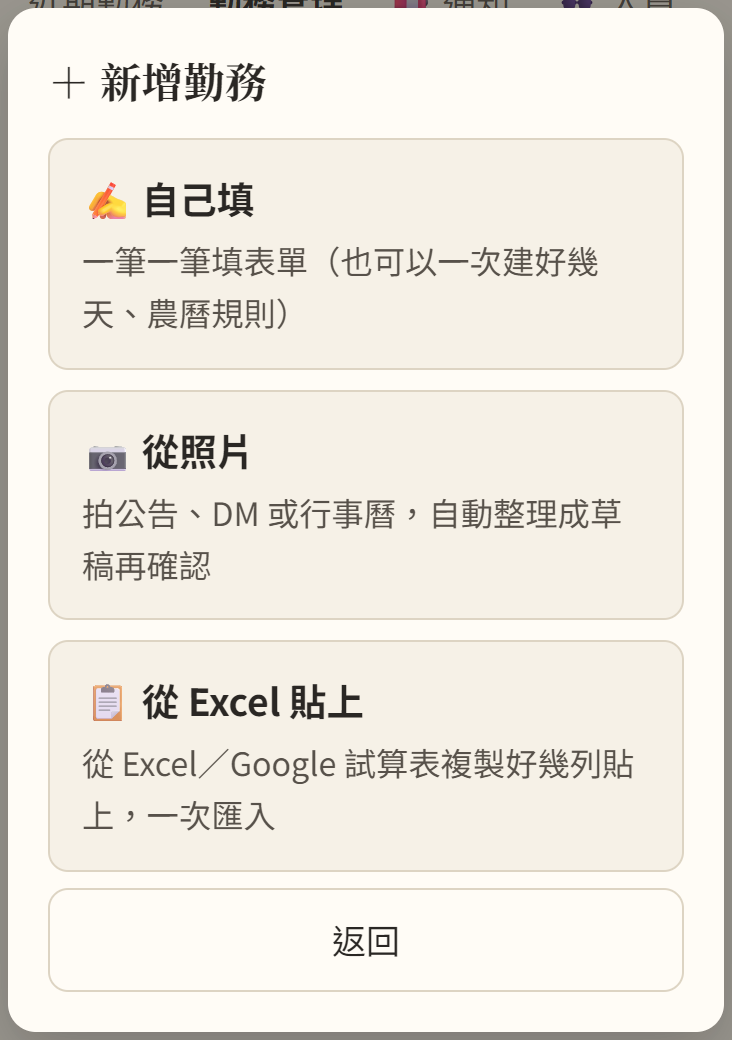
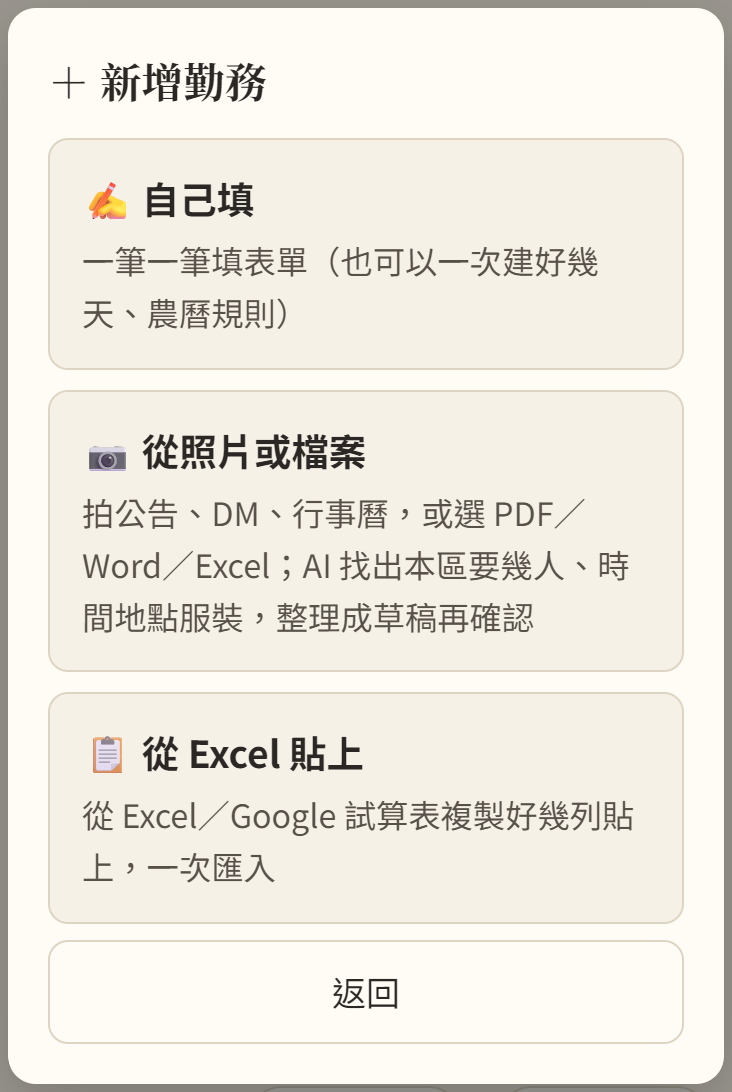
從照片或檔案新增：AI 先找活動再找本區要幾人、可選檔案與仔細判讀、借教全區金鑰

diff --git a/index.html b/index.html
@@ -15,7 +15,7 @@
   if (location.hostname === 'bailixiao.github.io') location.replace('https://jiaoquan-cal.pages.dev/' + location.pathname.replace(/^\/duty-calendar\/?/, '').replace(/index\.html$/, '') + location.search + location.hash);
   </script>
   <meta name="viewport" content="width=device-width, initial-scale=1">
-  <meta name="app-version" content="20261126e"><!-- 整個網站的版本：部署時和 ?v= 一起換（js/update-check.js 用；正式網站的 ?v= 會換成各檔案的雜湊，見 tools/build-pages.js） -->
+  <meta name="app-version" content="20261126f"><!-- 整個網站的版本：部署時和 ?v= 一起換（js/update-check.js 用；正式網站的 ?v= 會換成各檔案的雜湊，見 tools/build-pages.js） -->
   <meta name="theme-color" content="#f6f1e7">
   <title>教全區行事曆</title>
   <!-- 加到手機主畫面時的圖示與名稱 -->
@@ -32,7 +32,7 @@
   <link rel="preconnect" href="https://fonts.googleapis.com">
   <link rel="preconnect" href="https://fonts.gstatic.com" crossorigin>
   <link href="https://fonts.googleapis.com/css2?family=Noto+Sans+TC:wght@400;500;700&family=Noto+Serif+TC:wght@600;700&display=swap" rel="stylesheet">
-  <link rel="stylesheet" href="css/app.css?v=20261126e">
+  <link rel="stylesheet" href="css/app.css?v=20261126f">
   <script>try { var t = localStorage.getItem('duty-calendar:text-size'); if (t === 'l' || t === 'xl') document.documentElement.classList.add('text-' + t); } catch (e) {}</script>
 </head>
 <body class="splash-on">
@@ -127,78 +127,78 @@
   <script src="https://cdn.jsdelivr.net/npm/fullcalendar@6.1.21/index.global.min.js"></script>
   <script src="https://cdn.jsdelivr.net/npm/@fullcalendar/core@6.1.21/locales/zh-tw.global.min.js"></script>
   <!-- 改了 js、css 後把 ?v= 的日期換新，手機才不會用到舊的檔案（GitHub Pages 會快取 10 分鐘） -->
-  <script src="js/site.js?v=20261126e"></script>
-  <script src="js/region.js?v=20261126e"></script>
-  <script src="js/config.js?v=20261126e"></script>
-  <script src="js/api.js?v=20261126e"></script>
-  <script src="js/format.js?v=20261126e"></script>
-  <script src="js/member-suggest.js?v=20261126e"></script>
-  <script src="js/newcomer.js?v=20261126e"></script>
-  <script src="js/album.js?v=20261126e"></script>
-  <script src="js/member-file.js?v=20261126e"></script>
-  <script src="js/family.js?v=20261126e"></script>
-  <script src="js/lunar-util.js?v=20261126e"></script>
-  <script src="js/date-list.js?v=20261126e"></script>
-  <script src="js/share.js?v=20261126e"></script>
-  <script src="js/addcal.js?v=20261126e"></script>
-  <script src="js/duty-cache.js?v=20261126e"></script>
-  <script src="js/thanks-board.js?v=20261126e"></script>
-  <script src="js/calendar.js?v=20261126e"></script>
-  <script src="js/confirm.js?v=20261126e"></script>
-  <script src="js/reschedule.js?v=20261126e"></script>
-  <script src="js/signup.js?v=20261126e"></script>
-  <script src="js/duty-images.js?v=20261126e"></script>
-  <script src="js/roster-grid.js?v=20261126e"></script>
-  <script src="js/grid-page.js?v=20261126e"></script>
-  <script src="js/grid-image.js?v=20261126e"></script>
-  <script src="js/thanks-image.js?v=20261126e"></script>
-  <script src="js/celebrate.js?v=20261126e"></script>
-  <script src="js/duty.js?v=20261126e"></script>
-  <script src="js/mine.js?v=20261126e"></script>
-  <script src="js/venue-hours.js?v=20261126e"></script>
-  <script src="js/venue.js?v=20261126e"></script>
-  <script src="js/push.js?v=20261126e"></script>
-  <script type="text/x-admin" src="js/attend-check.js?v=20261126e"></script>
-  <script type="text/x-admin" src="js/member-dups.js?v=20261126e"></script>
-  <script type="text/x-admin" src="js/admin.js?v=20261126e"></script>
-  <script type="text/x-admin" src="js/admin-pages.js?v=20261126e"></script>
-  <script type="text/x-admin" src="js/draft-editor.js?v=20261126e"></script>
-  <script type="text/x-admin" src="js/group-fair.js?v=20261126e"></script>
-  <script type="text/x-admin" src="js/admin-duties.js?v=20261126e"></script>
-  <script type="text/x-admin" src="js/admin-accounts.js?v=20261126e"></script>
-  <script type="text/x-admin" src="js/admin-site.js?v=20261126e"></script>
-  <script src="js/region-setup.js?v=20261126e"></script>
-  <script type="text/x-admin" src="js/import-parse.js?v=20261126e"></script>
-  <script type="text/x-admin" src="js/admin-import.js?v=20261126e"></script>
-  <script type="text/x-admin" src="js/old-parse.js?v=20261126e"></script>
-  <script type="text/x-admin" src="js/old-import.js?v=20261126e"></script>
-  <script type="text/x-admin" src="js/admin-people.js?v=20261126e"></script>
-  <script type="text/x-admin" src="js/admin-hq.js?v=20261126e"></script>
-  <script type="text/x-admin" src="js/stats-calc.js?v=20261126e"></script>
-  <script type="text/x-admin" src="js/edu-stats.js?v=20261126e"></script>
-  <script type="text/x-admin" src="js/edu-care.js?v=20261126e"></script>
-  <script type="text/x-admin" src="js/admin-goals.js?v=20261126e"></script>
-  <script type="text/x-admin" src="js/admin-venue.js?v=20261126e"></script>
-  <script type="text/x-admin" src="js/admin-push.js?v=20261126e"></script>
-  <script src="js/tutorial.js?v=20261126e"></script>
-  <script src="js/feedback.js?v=20261126e"></script>
-  <script src="js/help.js?v=20261126e"></script>
-  <script src="js/rollcall.js?v=20261126e"></script>
-  <script type="text/x-admin" src="js/stats-export.js?v=20261126e"></script>
-  <script src="js/repair.js?v=20261126e"></script>
-  <script src="js/activity-report.js?v=20261126e"></script>
-  <script type="text/x-admin" src="js/member-stats.js?v=20261126e"></script>
-  <script type="text/x-admin" src="js/year-report.js?v=20261126e"></script>
-  <script type="text/x-admin" src="js/admin-stats.js?v=20261126e"></script>
-  <script type="text/x-admin" src="js/admin-report.js?v=20261126e"></script>
-  <script type="text/x-admin" src="js/admin-recent-signups.js?v=20261126e"></script>
-  <script type="text/x-admin" src="js/admin-notice.js?v=20261126e"></script>
-  <script type="text/x-admin" src="js/admin-notify.js?v=20261126e"></script>
-  <script type="text/x-admin" src="js/history-parse.js?v=20261126e"></script>
-  <script type="text/x-admin" src="js/admin-history.js?v=20261126e"></script>
-  <script type="text/x-admin" src="js/site-report.js?v=20261126e"></script>
-  <script src="js/easy-mode.js?v=20261126e"></script>
-  <script src="js/app.js?v=20261126e"></script>
-  <script src="js/update-check.js?v=20261126e"></script>
+  <script src="js/site.js?v=20261126f"></script>
+  <script src="js/region.js?v=20261126f"></script>
+  <script src="js/config.js?v=20261126f"></script>
+  <script src="js/api.js?v=20261126f"></script>
+  <script src="js/format.js?v=20261126f"></script>
+  <script src="js/member-suggest.js?v=20261126f"></script>
+  <script src="js/newcomer.js?v=20261126f"></script>
+  <script src="js/album.js?v=20261126f"></script>
+  <script src="js/member-file.js?v=20261126f"></script>
+  <script src="js/family.js?v=20261126f"></script>
+  <script src="js/lunar-util.js?v=20261126f"></script>
+  <script src="js/date-list.js?v=20261126f"></script>
+  <script src="js/share.js?v=20261126f"></script>
+  <script src="js/addcal.js?v=20261126f"></script>
+  <script src="js/duty-cache.js?v=20261126f"></script>
+  <script src="js/thanks-board.js?v=20261126f"></script>
+  <script src="js/calendar.js?v=20261126f"></script>
+  <script src="js/confirm.js?v=20261126f"></script>
+  <script src="js/reschedule.js?v=20261126f"></script>
+  <script src="js/signup.js?v=20261126f"></script>
+  <script src="js/duty-images.js?v=20261126f"></script>
+  <script src="js/roster-grid.js?v=20261126f"></script>
+  <script src="js/grid-page.js?v=20261126f"></script>
+  <script src="js/grid-image.js?v=20261126f"></script>
+  <script src="js/thanks-image.js?v=20261126f"></script>
+  <script src="js/celebrate.js?v=20261126f"></script>
+  <script src="js/duty.js?v=20261126f"></script>
+  <script src="js/mine.js?v=20261126f"></script>
+  <script src="js/venue-hours.js?v=20261126f"></script>
+  <script src="js/venue.js?v=20261126f"></script>
+  <script src="js/push.js?v=20261126f"></script>
+  <script type="text/x-admin" src="js/attend-check.js?v=20261126f"></script>
+  <script type="text/x-admin" src="js/member-dups.js?v=20261126f"></script>
+  <script type="text/x-admin" src="js/admin.js?v=20261126f"></script>
+  <script type="text/x-admin" src="js/admin-pages.js?v=20261126f"></script>
+  <script type="text/x-admin" src="js/draft-editor.js?v=20261126f"></script>
+  <script type="text/x-admin" src="js/group-fair.js?v=20261126f"></script>
+  <script type="text/x-admin" src="js/admin-duties.js?v=20261126f"></script>
+  <script type="text/x-admin" src="js/admin-accounts.js?v=20261126f"></script>
+  <script type="text/x-admin" src="js/admin-site.js?v=20261126f"></script>
+  <script src="js/region-setup.js?v=20261126f"></script>
+  <script type="text/x-admin" src="js/import-parse.js?v=20261126f"></script>
+  <script type="text/x-admin" src="js/admin-import.js?v=20261126f"></script>
+  <script type="text/x-admin" src="js/old-parse.js?v=20261126f"></script>
+  <script type="text/x-admin" src="js/old-import.js?v=20261126f"></script>
+  <script type="text/x-admin" src="js/admin-people.js?v=20261126f"></script>
+  <script type="text/x-admin" src="js/admin-hq.js?v=20261126f"></script>
+  <script type="text/x-admin" src="js/stats-calc.js?v=20261126f"></script>
+  <script type="text/x-admin" src="js/edu-stats.js?v=20261126f"></script>
+  <script type="text/x-admin" src="js/edu-care.js?v=20261126f"></script>
+  <script type="text/x-admin" src="js/admin-goals.js?v=20261126f"></script>
+  <script type="text/x-admin" src="js/admin-venue.js?v=20261126f"></script>
+  <script type="text/x-admin" src="js/admin-push.js?v=20261126f"></script>
+  <script src="js/tutorial.js?v=20261126f"></script>
+  <script src="js/feedback.js?v=20261126f"></script>
+  <script src="js/help.js?v=20261126f"></script>
+  <script src="js/rollcall.js?v=20261126f"></script>
+  <script type="text/x-admin" src="js/stats-export.js?v=20261126f"></script>
+  <script src="js/repair.js?v=20261126f"></script>
+  <script src="js/activity-report.js?v=20261126f"></script>
+  <script type="text/x-admin" src="js/member-stats.js?v=20261126f"></script>
+  <script type="text/x-admin" src="js/year-report.js?v=20261126f"></script>
+  <script type="text/x-admin" src="js/admin-stats.js?v=20261126f"></script>
+  <script type="text/x-admin" src="js/admin-report.js?v=20261126f"></script>
+  <script type="text/x-admin" src="js/admin-recent-signups.js?v=20261126f"></script>
+  <script type="text/x-admin" src="js/admin-notice.js?v=20261126f"></script>
+  <script type="text/x-admin" src="js/admin-notify.js?v=20261126f"></script>
+  <script type="text/x-admin" src="js/history-parse.js?v=20261126f"></script>
+  <script type="text/x-admin" src="js/admin-history.js?v=20261126f"></script>
+  <script type="text/x-admin" src="js/site-report.js?v=20261126f"></script>
+  <script src="js/easy-mode.js?v=20261126f"></script>
+  <script src="js/app.js?v=20261126f"></script>
+  <script src="js/update-check.js?v=20261126f"></script>
 </body>
 </html>

diff --git a/js/admin-duties.js b/js/admin-duties.js
@@ -132,9 +132,10 @@
     const m = Modal.open(`
       <h2 class="modal-title">從照片新增${T()}</h2>
       <div class="draft-photo">
-        <label class="btn btn-block btn-photo">📷 選照片或拍照<input type="file" accept="image/*" multiple hidden data-photo></label>
-        <input class="input" type="text" data-hint placeholder="補充說明（選填）例：這是 11 月的">
-        <p class="modal-note">一次最多 3 張；電腦也可以把照片拖進來，或截圖後按 Ctrl+V 貼上。只整理${esc(window.SITE.org)}的部分。照片會交給 Google Gemini 讀取，整理好後可以在下面直接修改，確認後才新增。</p>
+        <label class="btn btn-block btn-photo">📷 選照片、拍照或選檔案<input type="file" accept="image/*,.pdf,.docx,.xlsx,.xls,.csv" multiple hidden data-photo></label>
+        <input class="input" type="text" data-hint placeholder="補充說明（選填）例：這是 11 月的；我們負責香積">
+        <select class="input" data-careful aria-label="判讀方式"><option value="">一般判讀（快，約 10～30 秒）</option><option value="1">🔍 仔細判讀（Gemini Pro，比較準，約 30～90 秒）</option></select>
+        <p class="modal-note">照片一次最多 6 張，也可以選 PDF、Word、Excel；電腦也可以把照片拖進來，或截圖後按 Ctrl+V 貼上。AI 會先找活動、再找${esc(window.SITE.org)}那一行要幾個人，再找時間、地點、服裝、說明；只整理${esc(window.SITE.org)}的部分。內容會交給 Google Gemini 讀取，整理好後可以在下面直接修改，確認後才新增。</p>
         <div class="draft-thumbs" data-thumbs></div>
       </div>
       <div data-ai-note></div>
@@ -203,7 +204,7 @@
     });
     // 電腦：截圖後 Ctrl+V 貼上，或把照片拖進視窗
     el.addEventListener('paste', (ev) => {
-      const files = [...(ev.clipboardData ? ev.clipboardData.files : [])].filter((f) => /^image\//.test(f.type));
+      const files = [...(ev.clipboardData ? ev.clipboardData.files : [])];
       if (!files.length) return;
       ev.preventDefault();
       fromPhotos(files);
@@ -213,25 +214,36 @@
     el.addEventListener('drop', (ev) => {
       ev.preventDefault();
       el.classList.remove('is-dragover');
-      fromPhotos([...ev.dataTransfer.files].filter((f) => /^image\//.test(f.type)));
+      fromPhotos([...ev.dataTransfer.files]);
     });
 
     async function fromPhotos(all) {
-      const files = all.slice(0, 3);
-      if (!files.length) return;
+      const isImg = (f) => /^image\//.test(f.type);
+      const photos = all.filter(isImg).slice(0, 6);
+      const docs = all.filter((f) => !isImg(f)).slice(0, 3);
+      if (!photos.length && !docs.length) return;
       err('');
-      // 先顯示縮圖，確認選對照片
-      el.querySelector('[data-thumbs]').innerHTML = files.map((f) => `<img src="${URL.createObjectURL(f)}" alt="">`).join('');
+      const careful = !!el.querySelector('[data-careful]').value;
+      // 先顯示縮圖，確認選對照片（檔案顯示檔名）
+      el.querySelector('[data-thumbs]').innerHTML = photos.map((f) => `<img src="${URL.createObjectURL(f)}" alt="">`).join('') + docs.map((f) => `<span class="tag">📄 ${esc(f.name)}</span>`).join(' ');
       const started = Date.now();
-      const tick = () => Busy.show('AI 正在讀照片⋯', `已經等了 ${Math.round((Date.now() - started) / 1000)} 秒（通常 10～30 秒），請不要關閉畫面`);
+      const tick = () => Busy.show('AI 正在讀⋯', `已經等了 ${Math.round((Date.now() - started) / 1000)} 秒（通常 ${careful ? '30～90' : '10～30'} 秒），請不要關閉畫面`);
       tick();
       const timer = setInterval(tick, 1000);
       try {
-        const images = await Promise.all(files.map(shrinkImage));
-        const res = await Api.admin('adminDraftFromImages', { images, hint: el.querySelector('[data-hint]').value });
+        const images = await Promise.all(photos.map(shrinkImage));
+        // PDF、Word、Excel：有文字的讀成文字，掃描的頁畫成圖（和照片加起來最多 6 張）
+        let text = '';
+        for (const f of docs) {
+          (await MemberFile.chunksOf(f, '', null, { text: 30000, images: 6 })).forEach((c) => {
+            if (c.text) text += (text ? '\n\n' : '') + '【' + c.label + '】\n' + c.text;
+            (c.images || []).forEach((im) => { if (images.length < 6) images.push(im); });
+          });
+        }
+        const res = await Api.admin('adminDraftFromImages', { images, text: text.slice(0, 30000), hint: el.querySelector('[data-hint]').value, careful });
         clearInterval(timer);
         Busy.hide();
-        await showEditor(res.duties, `<div class="notice notice-success" role="status"><p><strong>AI 整理好 ${res.duties.length} 筆（${Math.round((Date.now() - started) / 1000)} 秒）</strong></p><p>請看下面每一筆，有錯直接改；名字已自動對照成員名單。確認後按最下面的「確認新增」。</p></div>`);
+        await showEditor(res.duties, `<div class="notice notice-success" role="status"><p><strong>AI 整理好 ${res.duties.length} 筆（${Math.round((Date.now() - started) / 1000)} 秒）</strong></p>${res.downgraded ? '<p>仔細判讀的 AI 現在不能用（今天的額度用完或太忙），這次改用一般判讀，請多核對。</p>' : ''}<p>請看下面每一筆：「🔎 AI 看到的」是它從照片找到的關鍵字和本區那一段，可以對照；有錯直接改，名字已自動對照成員名單。確認後按最下面的「確認新增」。</p></div>`);
       } catch (e) {
         clearInterval(timer);
         Busy.hide();
@@ -448,7 +460,7 @@
         <h2 class="modal-title">＋ 新增${T()}</h2>
         <div class="add-ways">
           <a class="more-item" href="#/admin/duties/new" data-way><strong>✍ 自己填</strong><span>一筆一筆填表單（也可以一次建好幾天、農曆規則）</span></a>
-          <button type="button" class="more-item" data-way-photo><strong>📷 從照片</strong><span>拍公告、DM 或行事曆，自動整理成草稿再確認</span></button>
+          <button type="button" class="more-item" data-way-photo><strong>📷 從照片或檔案</strong><span>拍公告、DM、行事曆，或選 PDF／Word／Excel；AI 找出本區要幾人、時間地點服裝，整理成草稿再確認</span></button>
           <a class="more-item" href="#/admin/import" data-way><strong>📋 從 Excel 貼上</strong><span>從 Excel／Google 試算表複製好幾列貼上，一次匯入</span></a>
           ${window.Region && Region.code ? '<button type="button" class="more-item" data-way-tpl><strong>📚 從教全區借範本</strong><span>教全區常用的勤務（時間、說明、了愿項目、名額），選一個帶入再改</span></button>' : ''}
         </div>

diff --git a/worker/src/hq.js b/worker/src/hq.js
@@ -341,6 +341,39 @@ export function createHq({ gs, store, cross, openRegions }) {
   }
 
   /**
+   * 從照片／檔案新增勤務草稿（2026/11/26 改：比 async-actions.js 原本的多了檔案文字、最多 6 張、仔細判讀、借教全區的金鑰）。
+   * body = { images, text, hint, careful } → { duties, model, downgraded }。只回傳草稿，不寫入。
+   */
+  special.adminDraftFromImages = async (body, curRegion) => {
+    if (curRegion === HQ_CODE) throw err('FORBIDDEN', '分壇請用「從檔案匯入行事曆」');
+    gs.requireAdmin_(body);
+    const images = Array.isArray(body.images) ? body.images : [];
+    const text = String(body.text || '').slice(0, 30000);
+    if (!images.length && !text.trim()) throw err('BAD_REQUEST', '請選擇照片或檔案');
+    if (images.length > 6) throw err('BAD_REQUEST', '一次最多 6 張照片（或 6 頁）');
+    const parts = [{ text: gs.aiDraftPrompt_(gs.cleanText_(body.hint || '')) }];
+    if (text.trim()) parts.push({ text: '以下是檔案的文字：\n' + text });
+    images.forEach((img) => {
+      const mime = String((img && img.mime) || '');
+      const data = String((img && img.data) || '');
+      if (!/^image\/(jpeg|png|webp)$/.test(mime) || !data) throw err('BAD_REQUEST', '照片格式只能是 jpg、png');
+      if (data.length > 6000000) throw err('BAD_REQUEST', '照片太大，請換一張小一點的');
+      parts.push({ inline_data: { mime_type: mime, data } });
+    });
+    const res = await aiRun(parts, !!body.careful);
+    let duties;
+    try {
+      const parsed = JSON.parse(res.text);
+      duties = Array.isArray(parsed) ? parsed : Array.isArray(parsed.duties) ? parsed.duties : [parsed];
+    } catch (e) {
+      throw err('AI', '看不太懂，請換清楚一點的照片或檔案再試，或改用「仔細判讀」');
+    }
+    duties = duties.filter((d) => d && typeof d === 'object' && d.name);
+    if (!duties.length) throw err('AI', '找不到本區的勤務資料，請確認內容，或在補充說明寫「這是哪個活動」');
+    return { duties, model: res.model, downgraded: !!res.downgraded };
+  };
+
+  /**
    * 從檔案帶入舊資料（各區，2026/11/26）：body = { text, images（最多 4 張）, hint, part, year, careful }
    * 回傳 { sessions: [整理過的一場], model, downgraded }。只讀、不寫入。
    */

diff --git a/js/draft-editor.js b/js/draft-editor.js
@@ -75,6 +75,7 @@
       positions: (Array.isArray(d.positions) && d.positions.length ? d.positions : [{ name: '了愿', min: 2, max: '' }])
         .map((p) => ({ name: String(p.name || ''), min: p.min === '' || p.min === undefined ? '' : String(p.min), max: p.max === '' || p.max === undefined || p.max === null ? '' : String(p.max) })),
       notes: Array.isArray(d.uncertain) ? d.uncertain.slice() : [],
+      seen: { keywords: Array.isArray(d.keywords) ? d.keywords.map(String).filter(Boolean).slice(0, 6) : [], regionText: String(d.regionText || '').slice(0, 300), regionNeed: String(d.regionNeed || '').replace(/[^\d]/g, '').slice(0, 4) },
       people: {} // 了愿項目名稱 → [{ name, status, original?, candidates? }]
     };
     const natures = NATURES_BY_CAT[x.category];
@@ -178,6 +179,7 @@
           <h3>第 ${i + 1} 筆</h3>
           <button type="button" class="btn btn-small btn-quiet-danger" data-remove>刪除這筆</button>
         </div>
+        ${x.seen && (x.seen.keywords.length || x.seen.regionText || x.seen.regionNeed) ? `<div class="de-seen">🔎 AI 看到的：${x.seen.keywords.length ? `<span>關鍵字 ${x.seen.keywords.map((k) => `<span class="tag">${esc(k)}</span>`).join(' ')}</span>` : ''}${x.seen.regionText ? `<span>本區那一段：「${esc(x.seen.regionText)}」</span>` : ''}${x.seen.regionNeed ? `<span>本區總共要 <strong>${esc(x.seen.regionNeed)}</strong> 人${x.positions.reduce((n, p) => n + (Number(p.max || p.min) || 0), 0) !== Number(x.seen.regionNeed) ? '（和下面項目的人數加起來不一樣，請確認）' : ''}</span>` : ''}</div>` : ''}
         ${x.notes.length ? `<div class="de-notes">⚠ 請特別確認：<ul>${x.notes.map((n) => `<li>${esc(n)}</li>`).join('')}</ul></div>` : ''}
         ${f('名稱', inp('name'))}
         <div class="de-row">

diff --git a/css/app.css b/css/app.css
@@ -3214,3 +3214,5 @@ body.yr-open { overflow: hidden; }
 .oi-tags { margin: 0; display: flex; flex-wrap: wrap; gap: 4px; align-items: center; font-size: .85rem; }
 .tag-new { background: var(--ok-soft); color: var(--ok); }
 .sticky-actions { position: sticky; bottom: 0; padding: 10px 0; background: var(--paper); }
+/* 從照片／檔案新增：AI 看到的（2026/11/26） */
+.de-seen { display: flex; flex-direction: column; gap: 4px; background: var(--ok-soft); border-radius: 10px; padding: 8px 12px; font-size: .95rem; }

diff --git a/docs/spec.md b/docs/spec.md
@@ -627,3 +627,11 @@
 - **帶入**：每 60 場送一次 adminImportAttendance（同名、同一天、同類別的勤務已經有就補名單，沒有就新增；已在名單上的人跳過，所以重複帶入不會重複），顯示進度；中途出錯停下來，改好再按一次（已帶入的會跳過）。新增的勤務：了愿項目一個（勤務「出勤」、其他「參加」），性質照類別（勤務類→勤務、道務→法會、教育→課程，表上有寫且合法就用表上的），有結束日、結束時間就一起存。
 - 操作紀錄每一場一筆（動作「修正」，「匯入出勤名單」），可以「還原」：這次帶入的名單取消；這次新增的勤務沒有其他人報名就一起刪掉。
 - API：adminOldImportAi { text, images, hint, part, careful } → { sessions, model, downgraded }；adminImportAttendance 的 create 多 end、endTime、nature。
+
+## 2026/11/26 從照片或檔案新增（AI 先找活動、再找本區要幾人）
+
+- 勤務管理「＋ 新增勤務 → 📷 從照片或檔案」：照片一次最多 6 張（原本 3 張），也可以選 PDF、Word、Excel（MemberFile.chunksOf：有文字的讀成文字、掃描的頁畫成圖，和照片加起來最多 6 張、文字最多 30000 字）；拖曳、Ctrl+V 貼上的檔案也可以。
+- 判讀方式「一般（快）／🔍 仔細判讀（Gemini Pro）」，Pro 不能用時改用一般並提示（同「從檔案帶入舊資料」）。
+- 提示（aiDraftPrompt_）改成照順序讀：1. 找每個活動的名稱、關鍵字、日期；2. 找本區在表上的那一行／欄／段（區名、簡寫、輪值區別、負責區）：負責哪些工作、每個工作幾人、已排好的人；3. 找時間、地點、服裝、報名截止、注意事項（整張的共同說明套到每個活動）。寫了本區要幾人時 min、max 都是那個數字；「5～8 人」就 5、8。多輸出 keywords、regionText（本區那一段原文）、regionNeed（本區總共要幾人）。
+- 草稿每一筆上面「🔎 AI 看到的」：關鍵字、本區那一段原文、本區總共要幾人；和了愿項目人數（每項 max，沒有就 min）加起來不一樣時提醒。
+- 呼叫改在 worker/src/hq.js special.adminDraftFromImages（{ images, text, hint, careful } → { duties, model, downgraded }）：這一區沒有 Gemini 金鑰就借教全區的（原本其他區沒有金鑰會失敗）。分壇不能用（用「從檔案匯入行事曆」）。
